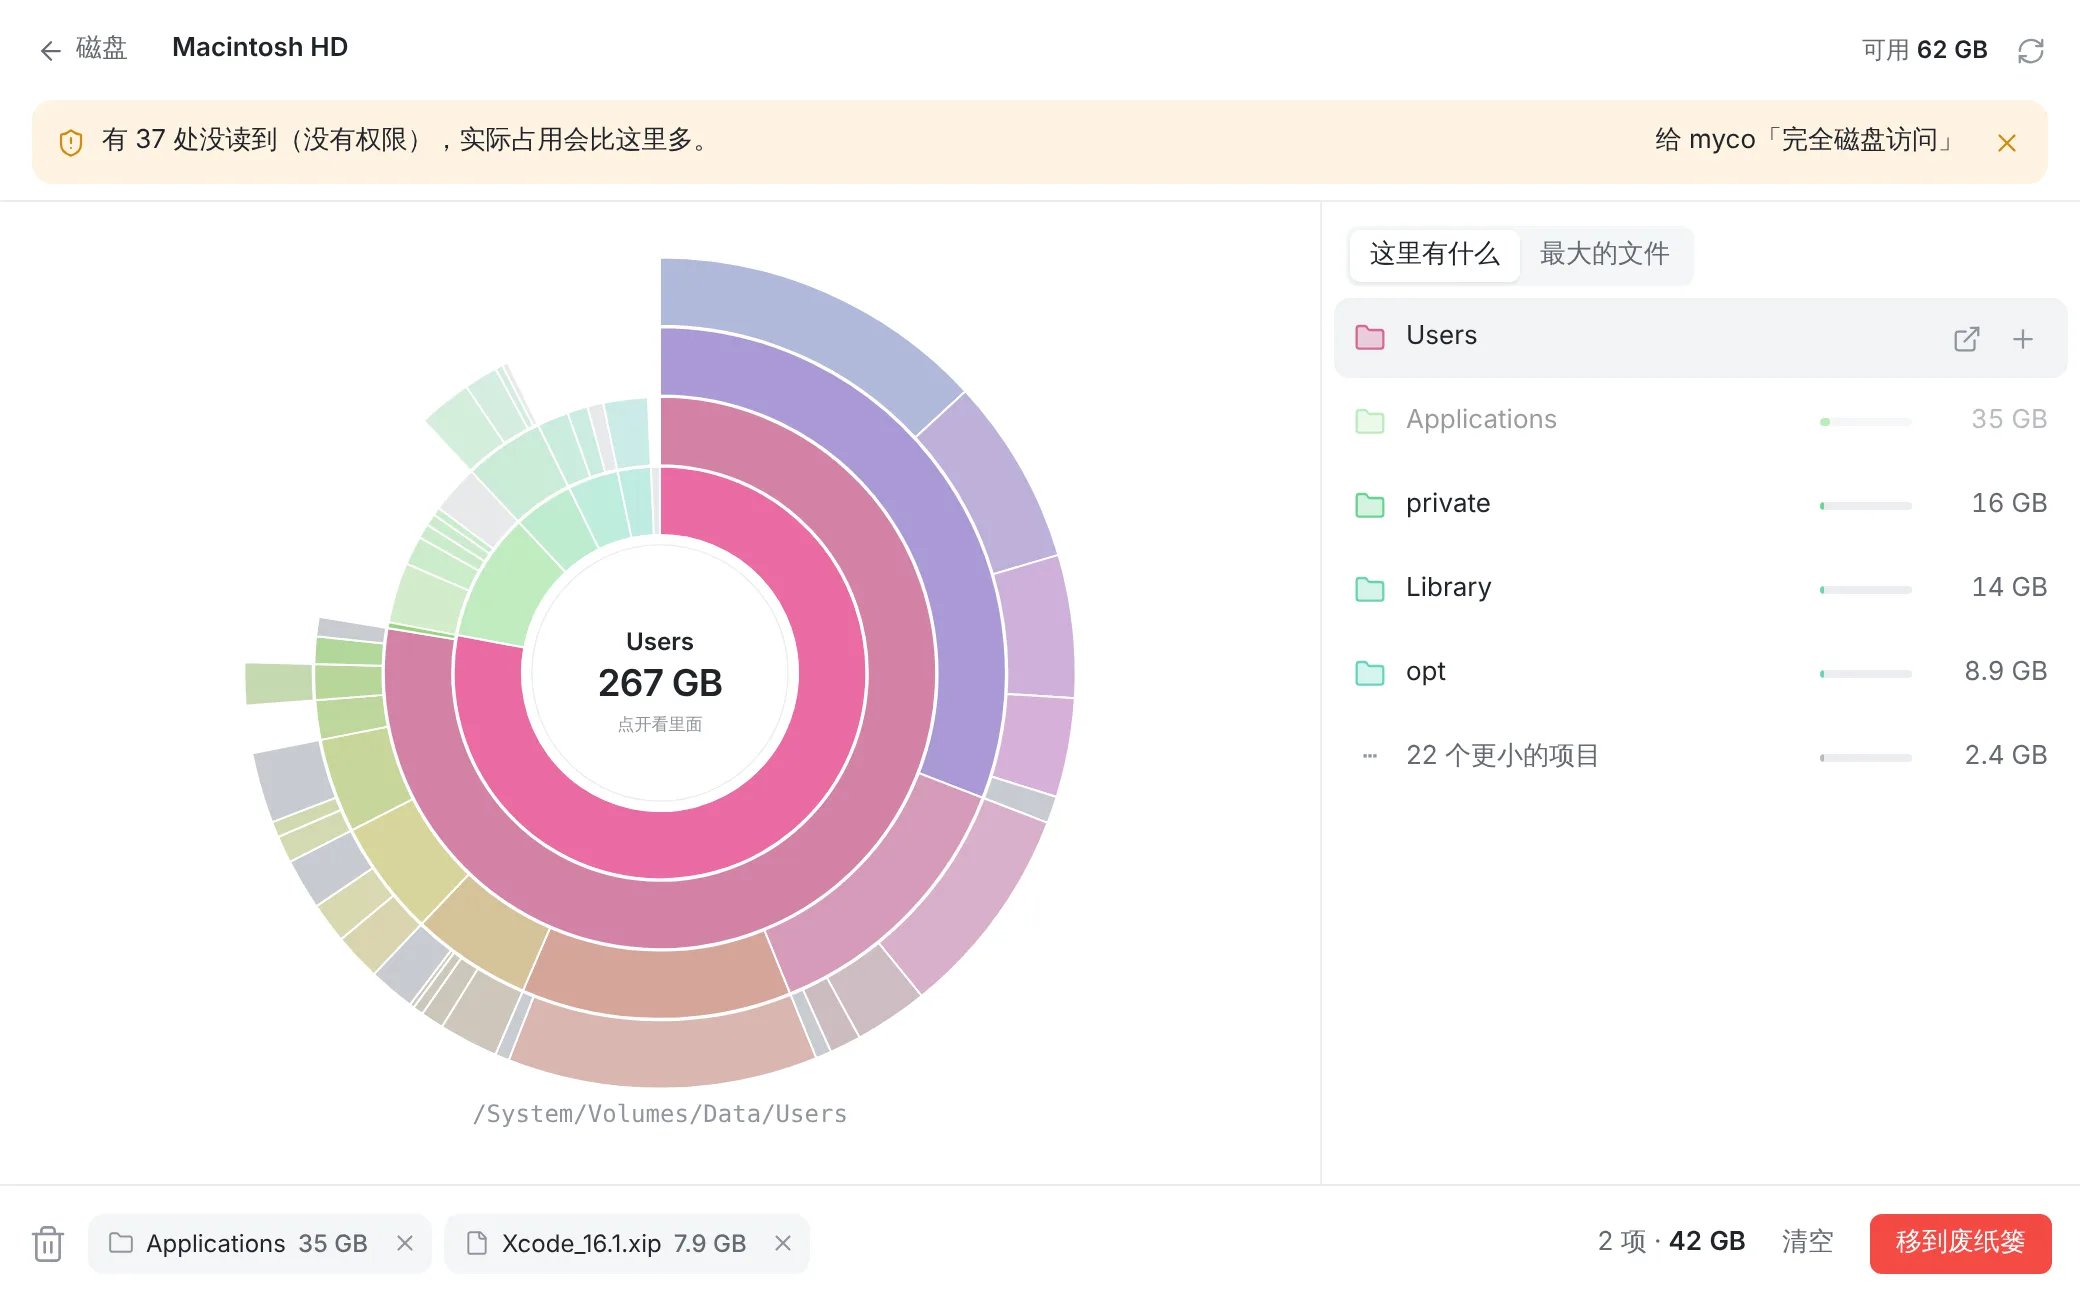
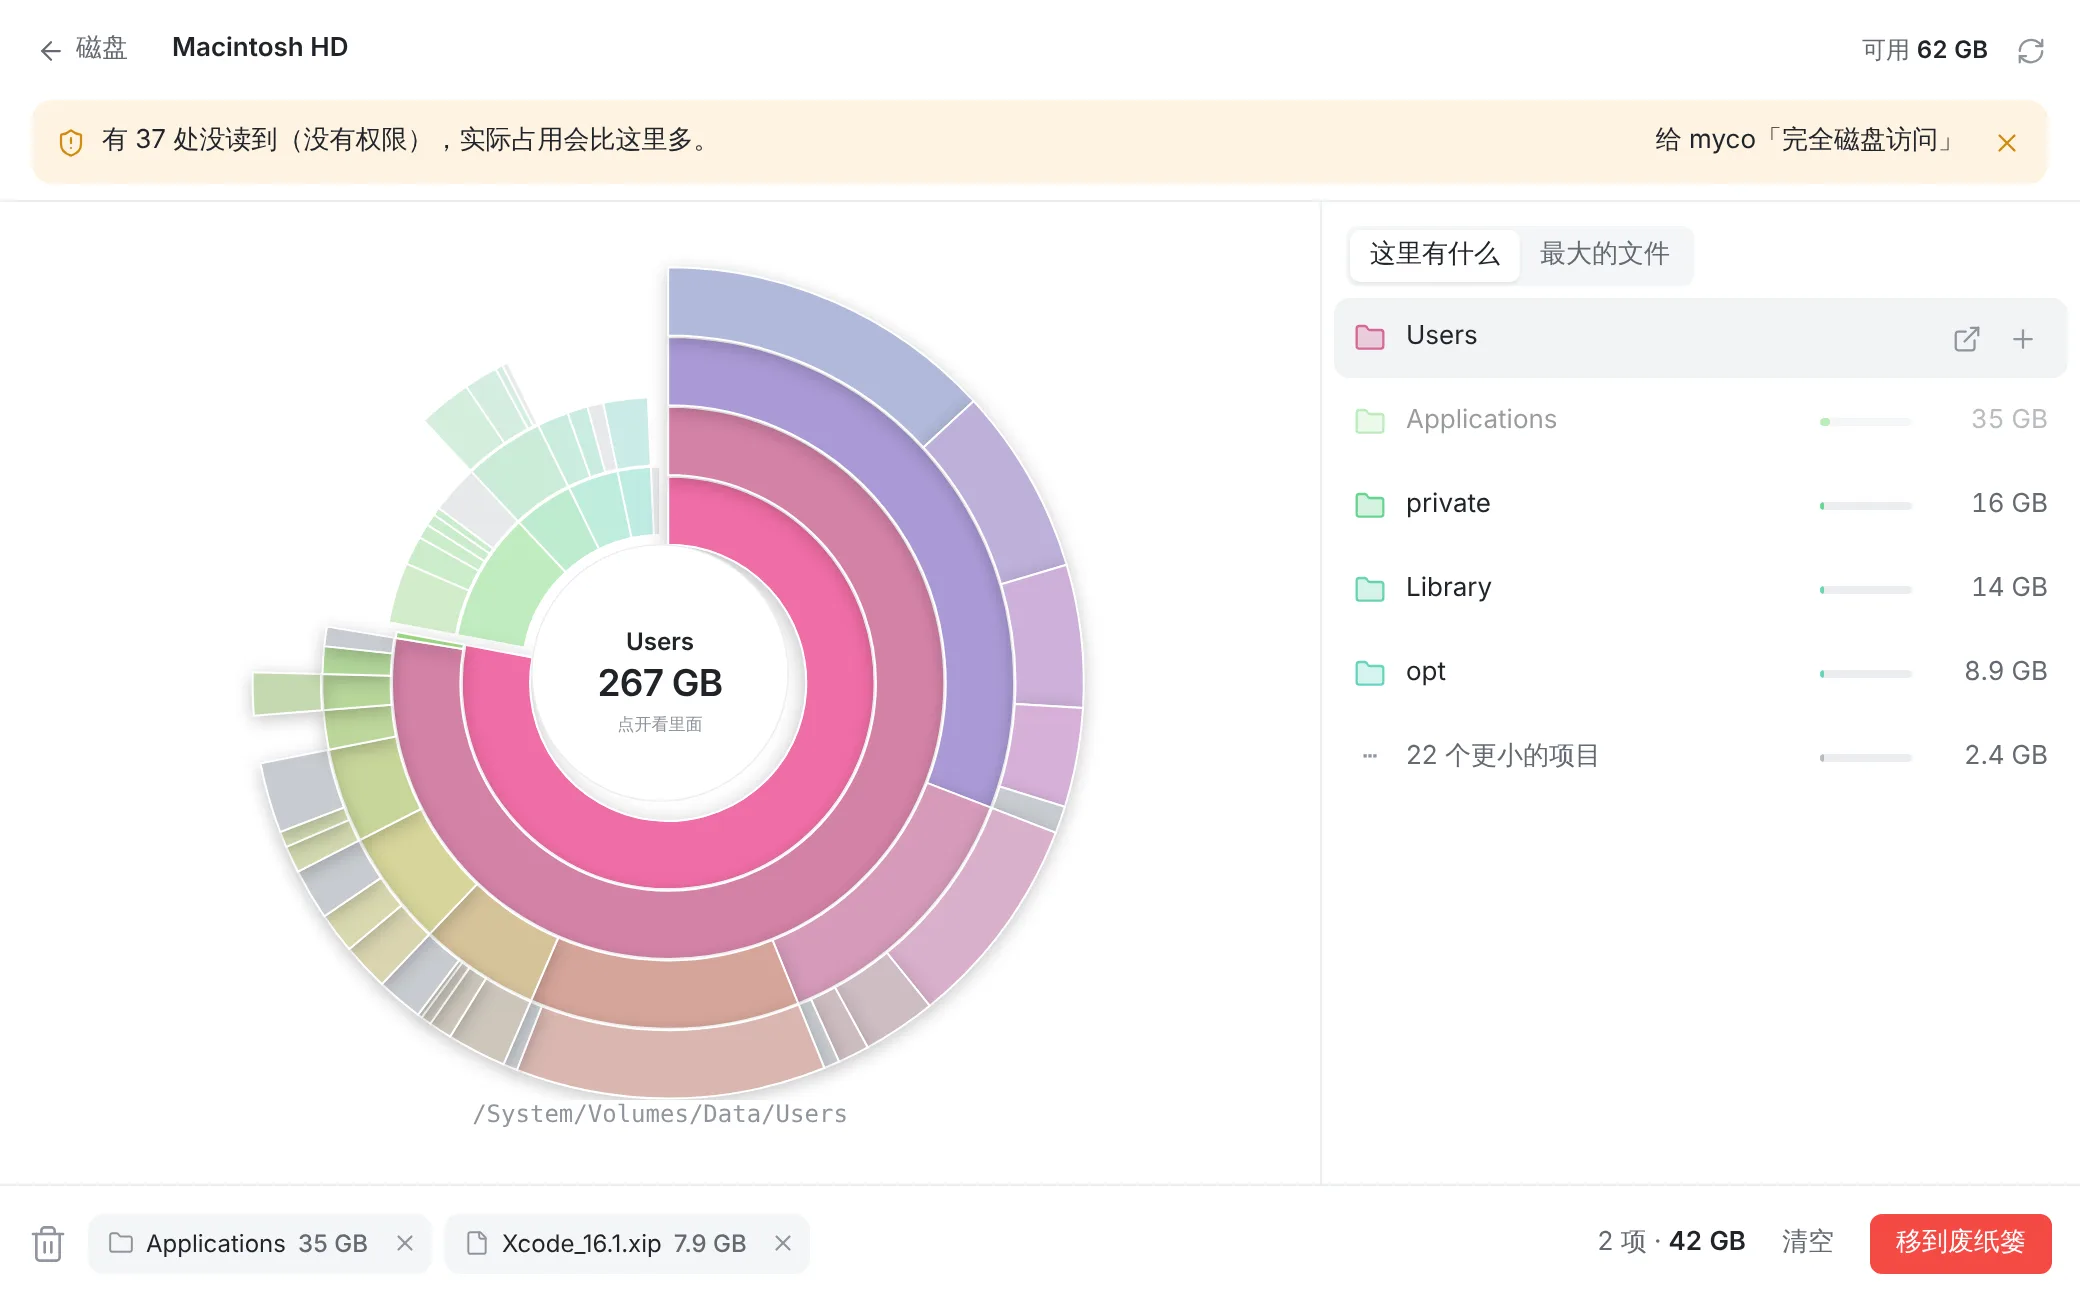
空间清理: what is pointed at comes out of the map, as in DaisyDisk
Pointing at a segment (on the map or in the list) moves it, with what is
in it, a little out along its own direction, with a shadow, and back when
let go; drawn last, so it comes out over its neighbours. The segments
have no title of their own any more (the middle says what it is).

The App names a page's frame with aria-label instead of title: WebKit
showed the frame's title (the page's name) as a tooltip over all of the
page.

Version 1.2.0.

Claude-Session: https://claude.ai/code/session_01CewNoAFbrSSvGsNNKPnVJH

diff --git a/templates/src/disk/sunburst.tsx b/templates/src/disk/sunburst.tsx
@@ -76,15 +76,19 @@ export function Sunburst({ node, levels, dark, hover, onHover, onOpen, onUp, can
     <svg className={`sb${busy ? " is-busy" : ""}`} viewBox={`0 0 ${SIZE} ${SIZE}`} role="img" aria-label={`${node.name} 的占用图`}
       onMouseLeave={() => onHover(null, null)}>
       <g>
-        {segs.map((s) => {
+        {/* (the one pointed at, with what is in it, drawn last: it comes out over the others) */}
+        {order(segs, shown).map((s) => {
           const r0 = R0 + (s.depth - 1) * ring + 1, r1 = R0 + s.depth * ring;
           const on = hover === s.key;
-          const dim = hover !== null && !on && !(shown && shown.node && s.key.startsWith(shown.key + "/"));
+          const inside = !!shown && (on || (!!shown.node && s.key.startsWith(shown.key + "/")));
+          const dim = hover !== null && !inside;
+          // what is pointed at comes out a little, along its own direction (as DaisyDisk does)
+          const out = inside && shown ? pop(shown) : null;
           return (
-            <path key={s.key} d={arc(r0, r1, s.a0, s.a1, C)} fill={colorOf(s, dark)} className={`sb-seg${on ? " is-on" : ""}${dim ? " is-dim" : ""}${s.node?.dir ? " is-dir" : ""}`}
-              onMouseEnter={() => onHover(s.key, s)} onClick={() => onOpen(s)}>
-              <title>{s.more ? `${s.parent.more} 个更小的项目` : s.node!.name}</title>
-            </path>
+            <path key={s.key} d={arc(r0, r1, s.a0, s.a1, C)} fill={colorOf(s, dark)}
+              className={`sb-seg${on ? " is-on" : ""}${inside ? " is-out" : ""}${dim ? " is-dim" : ""}${s.node?.dir ? " is-dir" : ""}`}
+              style={out ? { transform: `translate(${out.x}px, ${out.y}px)` } : undefined}
+              onMouseEnter={() => onHover(s.key, s)} onClick={() => onOpen(s)} />
           );
         })}
       </g>
@@ -94,6 +98,18 @@ export function Sunburst({ node, levels, dark, hover, onHover, onOpen, onUp, can
       <text x={C} y={C + 40} className="sb-hint">{shown ? (shown.node?.dir ? "点开看里面" : shown.more ? "太小，没有分开画" : `${label.files ? "文件" : ""}`) : canUp ? "点中间回上一层" : `${label.files.toLocaleString()} 个文件`}</text>
     </svg>
   );
+}
+
+// How far a segment comes out when pointed at (in the map's units: it is 600 across).
+const POP = 9;
+function pop(s: Seg) {
+  const mid = (s.a0 + s.a1) / 2;
+  return { x: +(POP * Math.sin(mid)).toFixed(2), y: +(-POP * Math.cos(mid)).toFixed(2) };
+}
+function order(segs: Seg[], shown: Seg | undefined) {
+  if (!shown) return segs;
+  const out = (s: Seg) => s.key === shown.key || (!!shown.node && s.key.startsWith(shown.key + "/"));
+  return [...segs.filter((s) => !out(s)), ...segs.filter(out)];
 }
 
 function clip(s: string, n: number) {

diff --git a/templates/src/disk/disk.css b/templates/src/disk/disk.css
@@ -80,9 +80,11 @@
 .dk-body { display: flex; flex: 1; min-height: 0; border-top: 1px solid var(--line2); }
 .dk-map { position: relative; display: flex; flex-direction: column; align-items: center; justify-content: center; flex: 1; min-width: 0; padding: 18px; }
 .sb { width: 100%; height: 100%; max-width: 620px; max-height: calc(100% - 28px); }
-.sb-seg { stroke: var(--bg); stroke-width: 1.4; transition: opacity 0.12s; }
+.sb-seg { stroke: var(--bg); stroke-width: 1.4; transition: opacity 0.14s, transform 0.16s ease-out, filter 0.16s; }
 .sb-seg.is-dim { opacity: 0.42; }
-.sb-seg.is-on { filter: brightness(1.06) saturate(1.1); }
+.sb-seg.is-out { filter: drop-shadow(0 3px 6px rgba(0, 0, 0, 0.22)); }
+.sb-seg.is-on { filter: brightness(1.08) saturate(1.12) drop-shadow(0 4px 8px rgba(0, 0, 0, 0.26)); }
+@media (prefers-color-scheme: dark) { .sb-seg.is-out { filter: drop-shadow(0 3px 8px rgba(0, 0, 0, 0.55)); } .sb-seg.is-on { filter: brightness(1.12) saturate(1.1) drop-shadow(0 4px 10px rgba(0, 0, 0, 0.6)); } }
 .sb.is-busy .sb-seg { opacity: 0.5; }
 .sb-mid { fill: var(--bg); stroke: var(--line2); stroke-width: 1; }
 .sb-mid.can-up:hover { fill: var(--hover); }
